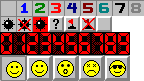
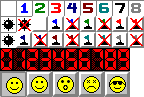
Edit PNG for multiplayer

diff --git a/examples/minesweeper.js b/examples/minesweeper.js
@@ -7,6 +7,7 @@
 var numberOfBombs = 99;
 var iMatrixSize = 16;
 var jMatrixSize = 30;
+var playerID = 2;
 
 // get parameters, if exists
 const urlParams = new URLSearchParams(location.search);
@@ -17,6 +18,8 @@ for (const [key, value] of urlParams) {
     iMatrixSize = parseInt(value);
   } else if (key == "b") {
     numberOfBombs = parseInt(value);
+  } else if (key == "u") {
+    playerID = parseInt(value);
   }
 }
 
@@ -27,7 +30,9 @@ const theme="url('images/minesweeper.png') "	// theme could be changed with anot
 
 var b = jsboard.board({attach:"game", size:boardSize});
 b.style({borderSpacing: "0px", border:"1px solid #CCC"});
-b.cell("each").style({textIndent:"-9999px", background:theme+"-96px -16px no-repeat", width:"16px", height:"16px", margin:"0", padding:"0"});
+var nil = jsboard.piece({text:"NL", textIndent:"-9999px", background:theme+"-32px -16px no-repeat", width:"16px", height:"16px", margin:"0 auto", padding:"0" });
+b.cell("each").style({background:"transparent", width:"16px", height:"16px", margin:"0", padding:"0"});
+b.cell("each").place(nil.clone())
 
 // setup pieces
 var zero = jsboard.piece({text:"ZR", textIndent:"-9999px", background:theme+"0 0 no-repeat", width:"16px", height:"16px", margin:"0 auto" });
@@ -40,12 +45,32 @@ var six = jsboard.piece({text:"SX", textIndent:"-9999px", background:theme+"-96p
 var seven = jsboard.piece({text:"SV", textIndent:"-9999px", background:theme+"-112px 0 no-repeat", width:"16px", height:"16px", margin:"0 auto" });
 var eight = jsboard.piece({text:"EI", textIndent:"-9999px", background:theme+"-128px 0 no-repeat", width:"16px", height:"16px", margin:"0 auto" });
 
-var flag = jsboard.piece({text:"FL", textIndent:"-9999px", background:theme+"-64px -16px no-repeat", width:"16px", height:"16px", margin:"0 auto" });
-var falseFlag = jsboard.piece({text:"FL", textIndent:"-9999px", background:theme+"-80px -16px no-repeat", width:"16px", height:"16px", margin:"0 auto" });
+var f1 = jsboard.piece({text:"FL", textIndent:"-9999px", background:theme+"-48px -16px no-repeat", width:"16px", height:"16px", margin:"0 auto" });
+var ff1 = jsboard.piece({text:"FL", textIndent:"-9999px", background:theme+"-64px -16px no-repeat", width:"16px", height:"16px", margin:"0 auto" });
+var f2 = jsboard.piece({text:"FL", textIndent:"-9999px", background:theme+"-80px -16px no-repeat", width:"16px", height:"16px", margin:"0 auto" });
+var ff2 = jsboard.piece({text:"FL", textIndent:"-9999px", background:theme+"-96px -16px no-repeat", width:"16px", height:"16px", margin:"0 auto" });
+var f3 = jsboard.piece({text:"FL", textIndent:"-9999px", background:theme+"-112px -16px no-repeat", width:"16px", height:"16px", margin:"0 auto" });
+var ff3 = jsboard.piece({text:"FL", textIndent:"-9999px", background:theme+"-128px -16px no-repeat", width:"16px", height:"16px", margin:"0 auto" });
+var f4 = jsboard.piece({text:"FL", textIndent:"-9999px", background:theme+"-16px -32px no-repeat", width:"16px", height:"16px", margin:"0 auto" });
+var ff4 = jsboard.piece({text:"FL", textIndent:"-9999px", background:theme+"-32px -32px no-repeat", width:"16px", height:"16px", margin:"0 auto" });
+var f5 = jsboard.piece({text:"FL", textIndent:"-9999px", background:theme+"-48px -32px no-repeat", width:"16px", height:"16px", margin:"0 auto" });
+var ff5 = jsboard.piece({text:"FL", textIndent:"-9999px", background:theme+"-64px -32px no-repeat", width:"16px", height:"16px", margin:"0 auto" });
+var f6 = jsboard.piece({text:"FL", textIndent:"-9999px", background:theme+"-80px -32px no-repeat", width:"16px", height:"16px", margin:"0 auto" });
+var ff6 = jsboard.piece({text:"FL", textIndent:"-9999px", background:theme+"-96px -32px no-repeat", width:"16px", height:"16px", margin:"0 auto" });
+var f7 = jsboard.piece({text:"FL", textIndent:"-9999px", background:theme+"-112px -32px no-repeat", width:"16px", height:"16px", margin:"0 auto" });
+var ff7 = jsboard.piece({text:"FL", textIndent:"-9999px", background:theme+"-128px -32px no-repeat", width:"16px", height:"16px", margin:"0 auto" });
+
+var flags = [f1,f2,f3,f4,f5,f6,f7]
+var falseFlags = [ff1,ff2,ff3,ff4,ff5,ff6,ff7]
+var colors = [ "#0000FF", "#008000", "#FF0000", "#000080", "#800000", "#008080", "#808080" ]
+
+var flag = flags[playerID]
+var falseFlag = falseFlags[playerID]
+
 
 // setup bombs
 var bomb = jsboard.piece({text:"BM", textIndent:"-9999px", background:theme+"0 -16px no-repeat", width:"16px", height:"16px", margin:"0 auto" });
-var bombRed = jsboard.piece({text:"BR", textIndent:"-9999px", background:theme+"-32px -16px no-repeat", width:"16px", height:"16px", margin:"0 auto" });
+var bombRed = jsboard.piece({text:"BR", textIndent:"-9999px", background:theme+"0 -32px no-repeat", width:"16px", height:"16px", margin:"0 auto" });
 
 // array regrouping numbered pieces
 var arrayNumbers = [zero, one, two, three, four, five, six, seven, eight];
@@ -72,11 +97,11 @@ document.getElementById("game-top").style.width = String(w-4)+"px";
 
 
 b.cell("each").on("mousedown", function() {
-	if(gameOn && !gameIsOver) document.getElementById("mood").style.backgroundPosition = "-52px -56px"
+	if(gameOn && !gameIsOver) document.getElementById("mood").style.backgroundPosition = "-52px -72px"
 });
 
 b.cell("each").on("mouseup", function() {
-  if(gameOn && !gameIsOver) document.getElementById("mood").style.backgroundPosition = "-26px -56px"
+  if(gameOn && !gameIsOver) document.getElementById("mood").style.backgroundPosition = "-26px -72px"
 });
 
 // game click handler (left mouse click)
@@ -90,14 +115,15 @@ b.cell("each").on("click", function() {
     var loc = b.cell(this).where();
     var i = loc[0];
     var j = loc[1];
-		if (b.cell(this).get()===null) {
+    console.log((b.cell(this).get()))
+		if (b.cell(this).get()==="NL") {
       testCell(i,j);
     } else if (b.cell(this).get()!="FL" && b.cell(this).get()!="ZR") {
       if (arrayValues[b.cell(this).get()] == numberOfNearFlags(i,j)) {
         for (var k = i-1; k<= i+1; k++) {
           if (k >= 0 && k<iMatrixSize) {
             for (var l = j-1; l<= j+1; l++) {
-              if (l >= 0 && l<jMatrixSize && b.cell([k,l]).get() === null) {
+              if (l >= 0 && l<jMatrixSize && b.cell([k,l]).get() === "NL") {
                 testCell(k,l)
               }
             }
@@ -116,7 +142,7 @@ b.cell("each").on("contextmenu", function(ev) {
   var i = loc[0];
   var j = loc[1];
 	// for updating remaining mines
-	if (b.cell(this).get()===null) {
+	if (b.cell(this).get()==="NL") {
 		b.cell(this).place(flag.clone());	// place a flag
     flagMatrix[i][j] = 1;
     remainingMines -= 1;
@@ -175,7 +201,7 @@ function testCell(i,j) {
     if(isAllCellExplored()){
       finishGame(-1,-1);
       // show winning message
-      document.getElementById("mood").style.backgroundPosition = "-104px -56px"
+      document.getElementById("mood").style.backgroundPosition = "-104px -72px"
     }
   }
 }
@@ -240,7 +266,7 @@ function numberOfNearFlags(i,j){
 
 // this function is called when zero cell is clicked
 function exploreRecursively(i,j){
-	if((i>=0)&&(i<iMatrixSize)&&(j>=0)&&(j<jMatrixSize)&&(b.cell([i,j]).get()===null)){
+	if((i>=0)&&(i<iMatrixSize)&&(j>=0)&&(j<jMatrixSize)&&(b.cell([i,j]).get()==="NL")){
 		var nearBombs = numberOfNearBombs(i,j);
 		b.cell([i,j]).place(arrayNumbers[nearBombs].clone());
 		if((nearBombs==0)){		
@@ -262,6 +288,7 @@ function finishGame(k,l){
       if (bombMatrix[i][j]==1) {
 				if ((i==k)&&(j==l)) {
 					b.cell([i,j]).place(bombRed.clone());
+					b.cell([i,j]).style({"background-color": colors[playerID]});
         } else if (flagMatrix[i][j]==1) {
 					b.cell([i,j]).place(flag.clone());
         } else {
@@ -276,7 +303,7 @@ function finishGame(k,l){
 		}	
 	}
   // show "Game Over" in HTML
-  document.getElementById("mood").style.backgroundPosition = "-78px -56px"
+  document.getElementById("mood").style.backgroundPosition = "-78px -72px"
 	gameIsOver = true;
 }
 
@@ -284,7 +311,7 @@ function finishGame(k,l){
 function isAllCellExplored(){
 	for (var i=0; i<iMatrixSize; i++){
 		for (var j=0; j<jMatrixSize; j++){
-			if((bombMatrix[i][j]==0)&&(b.cell([i,j]).get()===null)){
+			if((bombMatrix[i][j]==0)&&(b.cell([i,j]).get()==="NL")){
 				return false;
 			}
 		}	
@@ -299,10 +326,10 @@ function timer() {
 
 function setDigits (target, value) {
   v1 = Math.floor(value / 100);
-  document.getElementById(target+"1").style.backgroundPosition = "-"+String(v1*13)+"px -32px"
+  document.getElementById(target+"1").style.backgroundPosition = "-"+String(v1*13)+"px -48px"
   v2 = Math.floor(value % 100 / 10)
-  document.getElementById(target+"2").style.backgroundPosition = "-"+String(v2*13)+"px -32px"
+  document.getElementById(target+"2").style.backgroundPosition = "-"+String(v2*13)+"px -48px"
   v3 = value % 10;
-  document.getElementById(target+"3").style.backgroundPosition = "-"+String(v3*13)+"px -32px"
+  document.getElementById(target+"3").style.backgroundPosition = "-"+String(v3*13)+"px -48px"
 }
 

diff --git a/index.html b/index.html
@@ -19,6 +19,7 @@
       display: none;
 		}
     #game {
+      background: #aaa;
       border-top: 3px solid #838383 !important;
       border-left: 3px solid #838383 !important;
       border-bottom: 3px solid #fefefe !important;
@@ -48,7 +49,7 @@
       display: inline;
       width: 13px;
       height: 23px;
-      background: url("images/minesweeper.png") 0px -32px no-repeat;
+      background: url("images/minesweeper.png") 0px -48px no-repeat;
       position: absolute;
       top: 0;
     }
@@ -61,7 +62,7 @@
       position: absolute;
       top: 2px;
       left: calc( 50% - 13px);
-      background: url("images/minesweeper.png") -26px -56px no-repeat;
+      background: url("images/minesweeper.png") -26px -72px no-repeat;
     }
 		#remaining-mines{
 			color:#bd0707;
